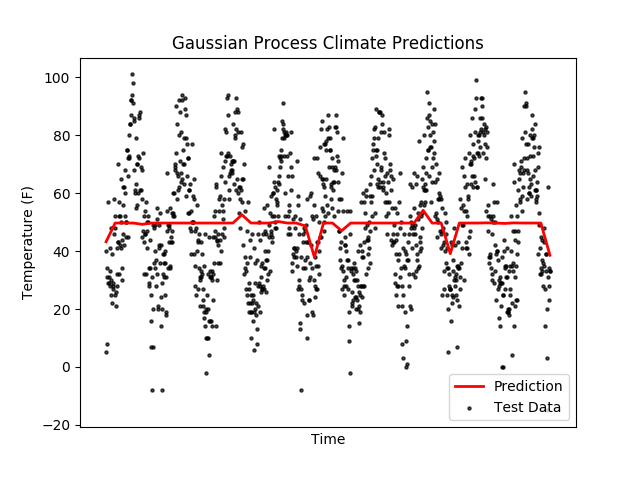
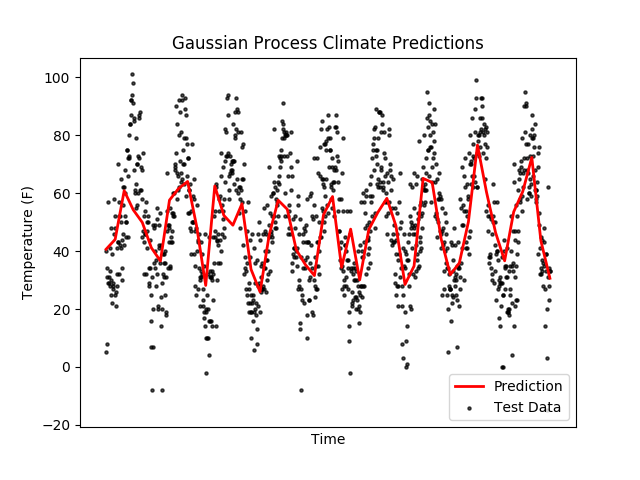
working model on 20yr of DIA data, starting to predict into the future (not yet past a year)

Changed region(s): [[0.1562, 0.375, 0.6875, 0.5938], [0.6875, 0.3125, 0.8438, 0.5938], [0.8438, 0.4688, 0.875, 0.5938]]

diff --git a/skgaus.py b/skgaus.py
@@ -8,20 +8,26 @@ from sklearn.model_selection import train_test_split
 from sklearn import preprocessing
 
 
-def gaus_p(X_train, X_test, y_train, y_test):
+def gaus_p(X_train, X_test, y_train, y_test=None):
     scaler = preprocessing.StandardScaler()
-    scaler.fit(X_train)
-    X_trs = scaler.transform(X_train)
-    X_tes = scaler.transform(X_test)
+    # scaler.fit(X_train)
+    # X_trs = scaler.transform(X_train)
+    # X_tes = scaler.transform(X_test)
     X_trs = X_train
     X_tes = X_test
     # combine square exponential with periodic to create locally periodic
     # kernel
-    rbf_ls = 70
+    rbf_1 = 250
+    rbf_2 = 70
     ess_ls = 10
-    # 1 year = 0.0318719999999999 before scaled
-    per = .06
-    kernel = RBF(length_scale=rbf_ls) * ExpSineSquared(length_scale=ess_ls, periodicity=per)
+    # 1 year = 0.03187 before scaled
+    per = .03
+    # kernel for general positive trend
+    k1 = RBF(length_scale=rbf_1)
+    # kernel for seasonal periodicity
+    k2 = RBF(length_scale=rbf_2) * ExpSineSquared(length_scale=ess_ls, \
+                                                   periodicity=per)
+    kernel = k1 + k2
     gpr = GaussianProcessRegressor(alpha=.5, \
                                    kernel=kernel, \
                                    normalize_y=True)
@@ -29,53 +35,54 @@ def gaus_p(X_train, X_test, y_train, y_test):
 
     y_pred, std = gpr.predict(X_tes, return_std=True)
 
-    print('Using parameters...\nRBF ls: {}, Sine ls: {}, period: {}'\
-          .format(rbf_ls, ess_ls, per))
-    print('Score of GPR: {}'.format(gpr.score(X_tes, y_test)))
+    if y_test != None:
+        print('Score of GPR: {}'.format(gpr.score(X_tes, y_test)))
 
-    plot_pred(gpr, 'Gaussian Process', 'train_predict', X_trs, y_train, X_tes)
+    plot_pred(gpr, 'Gaussian Process', 'climate_predict', X_trs, y_train, X_tes)
 
     return gpr, y_pred
 
 def plot_pred(model, model_name, fig_name, X_train, y_train, X_test):
     plt.close()
     y_pred = model.predict(X_train)
-    x = np.linspace(X_train.min(), X_train.max(), 50).reshape(-1, 1)
+    x = np.linspace(X_train.min(), np.max(X_test), 100).reshape(-1, 1)
     y = model.predict(x)
+    print(model.predict(np.linspace(X_train.max(), np.max(X_test), 100).reshape(-1, 1)))
 
     # plot data
     plt.scatter(X_train, y_train, c='k', label='Test Data', s=5, alpha=0.7)
-    # plt.scatter(X_train, y_pred, c='r', label='Predictions', s=5, alpha=0.7)
+
+    # plot prediction as regression
     plt.plot(x, y, c='r', label='Prediction', linewidth=2)
+
+    # x_pred = np.linspace(X_train.max(), np.max(X_test), 100).reshape(-1, 1)
+    # y_pred, std = model.predict(x_pred, return_std=True)
+    # plt.plot(x_pred, y_pred, c='r', linewidth=2)
+    # # x_pred = np.linspace(X_train.max(), np.max(X_test), 1000).reshape(-1, 1)
+    # # y_pred, std = model.predict(x_pred, return_std=True)
+    # # plt.fill(np.concatenate([x_pred, x_pred[::-1]]),
+    # #          np.concatenate([y_pred - 1.9600 * std,
+    # #                         (y_pred + 1.9600 * std)[::-1]]),
+    # #          alpha=.3, fc='b', ec='None', label='95% confidence interval')
+    #
+    # plt.fill_between(x_pred, y_pred - std, y_pred + std,\
+    #                  alpha=0.5, color='k')
+
     plt.title('{} Climate Predictions'.format(model_name))
     plt.xlabel('Time')
     plt.ylabel('Temperature (F)')
     plt.tick_params(axis='x', which='both', bottom='off', top='off', labelbottom='off')
-
-    # plot prediction as regression
-    y_pred, std = model.predict(X_test, return_std=True)
-    # plt.plot(X_test, y_pred, 'b-', label='Prediction')
-    # plt.fill(np.concatenate([x, x[::-1]]),
-    #          np.concatenate([y_fut - 1.9600 * std,
-    #                         (y_fut + 1.9600 * std)[::-1]]),
-    #          alpha=.5, fc='b', ec='None', label='95% confidence interval')
-
-
-        # plt.plot(future, y_fut)
-        # plt.fill_between(future[:, 0], y_fut - std, y_fut + std,\
-        #                  alpha=0.5, color='k')
-        # plt.xlim(X_test.min(), future.max())
-    plt.legend()
+    # plt.legend()
     plt.savefig('images/{}.png'.format(fig_name))
 
 
 if __name__ == '__main__':
     df = pd.read_pickle('40yr_df.pkl')
-    # # work with 100th of the data for simplicity
-    # df = df.iloc[::100, :]
-    # # start with dates over 2005, predict on dates past 2014
-    # # this is the most populated, clean data
-    # df = df[df['date'] > '2005']
+    # work with 100th of the data for simplicity
+    df = df.iloc[::100, :]
+    # start with dates over 2005, predict on dates past 2014
+    # this is the most populated, clean data
+    df = df[df['date'] > '1995']
     train_df = df.loc[df['date'] < '2014']
     test_df = df.loc[df['date'] >= '2014']
     # convert datetime to seconds since epoch *e19
@@ -87,35 +94,20 @@ if __name__ == '__main__':
     y_train = train_df['hourly_dry_bulb_temp_f'].values.reshape(-1, 1)
     y_test = test_df['hourly_dry_bulb_temp_f'].values.reshape(-1, 1)
 
-    gpr, y_pred = gaus_p(X_train, X_test, y_train, y_test)
+    # gpr, y_pred = gaus_p(X_train, X_test, y_train, y_test)
 
-    # all_X = df['date'].values.reshape(-1, 1)
-    # all_y = df['hourly_dry_bulb_temp_f'].values.reshape(-1, 1)
-    #
-    # predicts = pd.DataFrame(\
-    #             np.array(['2017-06-01', '2018-01-01',\
-    #                      '2018-06-01', '2019-01-01',\
-    #                      '2019-06-01', '2020-01-01',\
-    #                      '2020-06-01', '2021-01-01',\
-    #                      '2021-06-01', '2022-01-01',\
-    #                      '2022-06-01', '2023-01-01',], dtype='datetime64'))
-    # predicts = (pd.to_numeric(predicts[0].values)/1000000000000000000)\
-    #             .reshape(-1, 1)
-    #
-    #
-    # y = df.pop('date').values
-    # X = df.values
-    # gpr = gaus_p(X, y)
+    df['date_epoch'] = pd.to_numeric(df['date'], errors='coerce')/1000000000000000000
+    all_X = df['date_epoch'].values.reshape(-1, 1)
+    all_y = df['hourly_dry_bulb_temp_f'].values.reshape(-1, 1)
 
-    # Using parameters...
-    # RBF ls: 70, Sine ls: 10, period: 0.03187
-    # Score of GPR: 0.09899526306773943
+    predicts = pd.DataFrame(\
+                np.array(['2018-01-01'], dtype='datetime64'))
+    predicts = (pd.to_numeric(predicts[0].values)/1000000000000000000)\
+                .reshape(-1, 1)
+
+    gpr, y_pred = gaus_p(all_X, predicts, all_y)
+
     # Using parameters...
     # RBF ls: 70, Sine ls: 10, period: 0.03
+    # On data since 2005
     # Score of GPR: 0.4582533725449096
-    # Using parameters...
-    # RBF ls: 70, Sine ls: 10, period: 0.028
-    # Score of GPR: -0.0006649612647204872
-    # Using parameters...
-    # RBF ls: 70, Sine ls: 10, period: 0.015
-    # Score of GPR: -0.0006649612647204872

diff --git a/eda.py b/eda.py
@@ -2,7 +2,7 @@ import pandas as pd
 import numpy as np
 import matplotlib.pyplot as plt
 from sklearn import preprocessing
-from d_manage import clean_data, clean_type, fill_nans
+from data_cleaning import clean_data, clean_type, fill_nans
 from sklearn.linear_model import LinearRegression
 from sklearn.model_selection import train_test_split
 import boto3
